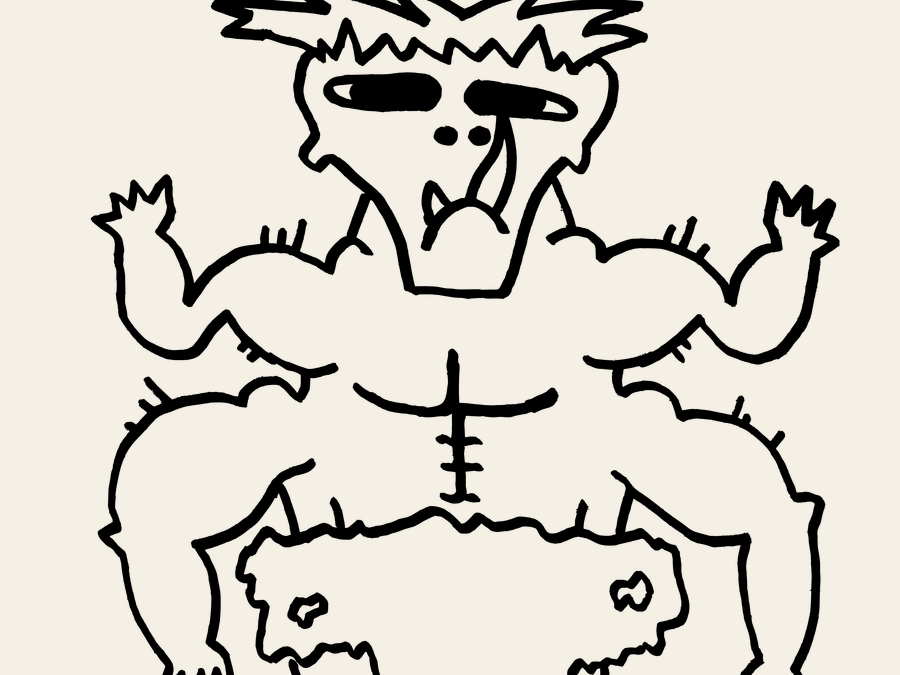
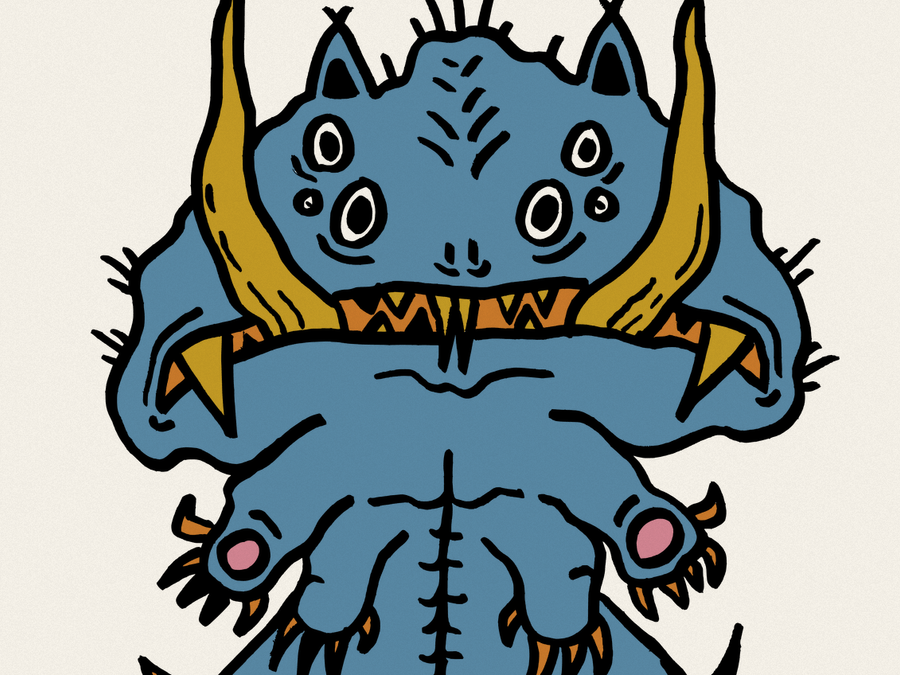
feat: Jake's own colored monster as the book's header and poster
The header image and exhibits-wall poster are now the monster-04 page
Jake colored in the exhibit's machine and downloaded. The pipeline no
longer generates a poster; both images are hand-picked artifacts.

diff --git a/src/data/exhibits.ts b/src/data/exhibits.ts
@@ -22,7 +22,7 @@ export const exhibits: Exhibit[] = [
     label: "Now open · Coloring book",
     line: "16 hand-drawn ink monsters as a notebook you can flip through and color. The paper is locked; the monsters are not.",
     image: monstersPoster,
-    alt: "A hand-drawn ink monster on warm paper",
+    alt: "A colored page from the book: a blue four-eyed monster with gold tusks",
   },
   {
     href: "/exhibits/synapse/",
